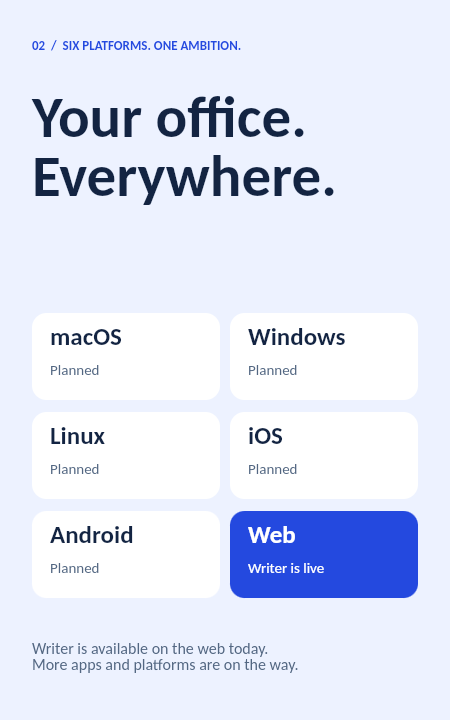
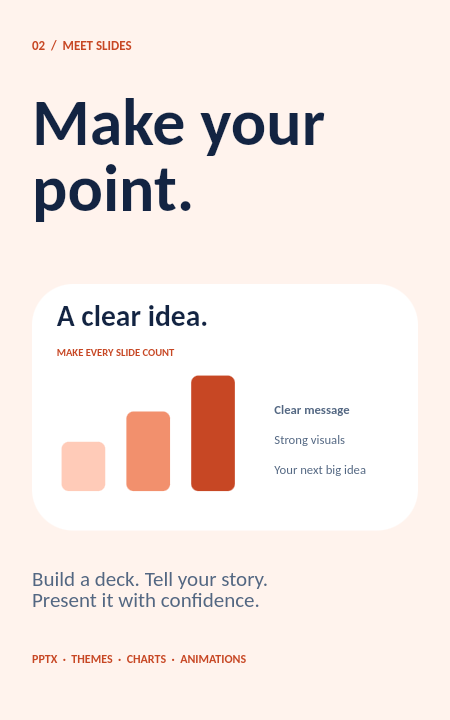
site: feature Writer, Slides, and Sheets across the landing deck

diff --git a/index.html b/index.html
@@ -5,37 +5,44 @@
   <meta name="viewport" content="width=device-width, initial-scale=1">
   <meta name="theme-color" content="#2449df">
   <title>Starling Office — an open source office suite</title>
-  <meta name="description" content="Big ideas start here. An open source office suite, beginning with Writer. A presentation made and rendered with Starling Slides.">
+  <meta name="description" content="Big ideas start here. Writer, Slides, and Sheets: an open source office suite for documents, presentations, and spreadsheets. A presentation made and rendered with Starling Slides.">
   <link rel="canonical" href="https://openoffice.starling.build/">
   <meta property="og:title" content="Starling Office — big ideas start here">
-  <meta property="og:description" content="An open source office suite. Writer is live on the web. More apps and platforms are on the way.">
+  <meta property="og:description" content="Meet Writer, Slides, and Sheets. Documents, presentations, and spreadsheets, built in the open.">
   <meta property="og:type" content="website">
-  <meta property="og:image" content="https://openoffice.starling.build/slides/wide-1.png">
+  <meta property="og:image" content="https://openoffice.starling.build/slides/wide-1.png?v=04f0ac3f4aed0755">
   <link rel="icon" href="favicon.svg" type="image/svg+xml">
-  <link rel="stylesheet" href="styles.css?v=c82e00073d7879bf">
+  <link rel="stylesheet" href="styles.css?v=a0724e2d1c1235d0">
 </head>
 <body>
   <a class="skip" href="#presentation">Skip to presentation</a>
   <header class="header">
     <a class="brand" href="https://starling.build"><img src="favicon.svg" width="30" height="30" alt="">Starling <span>Office</span></a>
-    <div class="header-links"><button id="read-text" type="button">Read the story</button><a href="https://github.com/starling-build/starling">GitHub ↗</a><a class="open-writer" href="https://writer.starling.build/">Open Writer ↗</a></div>
+    <div class="header-links"><button id="read-text" type="button">Read the story</button><a href="https://github.com/starling-build/starling">GitHub ↗</a><a class="open-apps" href="#2">Explore apps ↘</a></div>
   </header>
   <main id="presentation" aria-label="Starling Office presentation">
     <div class="stage" id="stage">
-      <picture id="poster"><source media="(max-aspect-ratio: 1/1)" srcset="slides/tall-1.png"><img src="slides/wide-1.png" alt="Big ideas. Start here. An open source office suite, starting with Writer." fetchpriority="high" width="1280" height="720"></picture>
+      <picture id="poster"><source media="(max-aspect-ratio: 1/1)" srcset="slides/tall-1.png?v=04f0ac3f4aed0755"><img src="slides/wide-1.png?v=04f0ac3f4aed0755" alt="Big ideas. Start here. Writer, Slides, and Sheets. An open source office suite." fetchpriority="high" width="1280" height="720"></picture>
       <canvas id="starling" tabindex="0" role="img" aria-label="Starling Slides presentation" aria-describedby="slide-description"></canvas>
       <div class="load-status" id="load-status" role="status">Starting live slides…</div>
       <button id="retry" type="button" hidden>Retry live slides</button>
     </div>
-    <p class="sr-only" id="slide-description">An open source office suite, starting with Writer. Writer is available on the web today.</p>
+    <p class="sr-only" id="slide-description">Writer, Slides, and Sheets. An open source office suite. Documents, presentations, and spreadsheets, built in the open.</p>
   </main>
   <footer class="controls">
-    <div class="credit"><span class="slides-icon" aria-hidden="true">S</span><span>Presented with <strong>Starling Slides</strong><a id="download-deck" href="slides/landing-wide.pptx" download>Download the editable deck ↗</a></span></div>
-    <nav class="slide-navigation" aria-label="Presentation slides"><button id="previous" type="button" aria-label="Previous slide" disabled>←</button><div class="dots"><button type="button" data-slide="0" aria-label="Slide 1: Introduction" aria-current="step"></button><button type="button" data-slide="1" aria-label="Slide 2: Writer"></button><button type="button" data-slide="2" aria-label="Slide 3: Platforms"></button><button type="button" data-slide="3" aria-label="Slide 4: Open source"></button></div><span id="position" aria-live="polite" aria-atomic="true">01 / 04</span><button id="next" type="button" aria-label="Next slide">→</button></nav>
-    <a class="slide-action" id="slide-action" href="https://writer.starling.build/">Start writing <span aria-hidden="true">↗</span></a>
+    <div class="credit"><span class="slides-icon" aria-hidden="true">S</span><span>Presented with <strong>Starling Slides</strong><a id="download-deck" href="slides/landing-wide.pptx?v=04f0ac3f4aed0755" download>Download the editable deck ↗</a></span></div>
+    <nav class="slide-navigation" aria-label="Presentation slides"><button id="previous" type="button" aria-label="Previous slide" disabled>←</button><div class="dots"><button type="button" data-slide="0" aria-label="Slide 1: Introduction" aria-current="step"></button><button type="button" data-slide="1" aria-label="Slide 2: Writer"></button><button type="button" data-slide="2" aria-label="Slide 3: Slides"></button><button type="button" data-slide="3" aria-label="Slide 4: Sheets"></button><button type="button" data-slide="4" aria-label="Slide 5: Platforms"></button><button type="button" data-slide="5" aria-label="Slide 6: Open source"></button></div><span id="position" aria-live="polite" aria-atomic="true">01 / 06</span><button id="next" type="button" aria-label="Next slide">→</button></nav>
+    <a class="slide-action" id="slide-action" href="#2">Meet the apps <span aria-hidden="true">↗</span></a>
   </footer>
-  <dialog id="story"><button id="close-story" type="button" aria-label="Close story">×</button><article><h1>Starling Office</h1><h2>Big ideas. Start here.</h2><p>An open source office suite, starting with Writer.</p><h2>Write something great.</h2><p>A familiar ribbon. A clean page. Fonts, styles, tables, and pictures. Open and save DOCX, RTF, Markdown, and plain text. <a href="https://writer.starling.build/">Open Writer</a>.</p><h2>Your office. Everywhere.</h2><p>Writer is available on the web today. macOS, Windows, Linux, iOS, and Android are planned.</p><h2>Open code. Shared ambition.</h2><p>Built on the Starling SDK and licensed under Apache 2.0. Only Writer is available so far. <a href="https://github.com/starling-build/starling/tree/office/apps/OfficeApp">Read the source</a>.</p><p>This presentation is an editable PPTX, displayed by Starling Slides.</p></article></dialog>
-  <noscript><div class="no-script">Browse the <a href="slides/landing-wide.pptx">presentation deck</a>, or <a href="https://writer.starling.build/">open Writer</a>. JavaScript enables live slides.</div></noscript>
-  <script type="module" src="slides.js?v=f5bb02605a07c2c8"></script>
+  <dialog id="story"><button id="close-story" type="button" aria-label="Close story">×</button><article>
+    <h1>Starling Office</h1><h2>Big ideas. Start here.</h2><p>Writer, Slides, and Sheets. An open source office suite for documents, presentations, and spreadsheets.</p>
+    <h2 id="writer-details">Writer — write something great.</h2><p>A familiar ribbon. A clean page. Fonts, styles, tables, and pictures. Open and save DOCX, RTF, Markdown, and plain text. <a href="https://writer.starling.build/">Open Writer</a>.</p>
+    <h2 id="slides-details">Slides — make your point.</h2><p>Build presentations with themes, shapes, tables, charts, and animations. Present with speaker notes. Open and save PPTX. This page itself is an editable presentation rendered by Starling Slides.</p>
+    <h2 id="sheets-details">Sheets — let the numbers tell the story.</h2><p>Organize data with formulas, tables, sorting, and filters. Work across multiple sheets, format cells, and open and save XLSX and CSV.</p>
+    <h2>Your office. Everywhere.</h2><p>The platform roadmap spans macOS, Windows, Linux, iOS, Android, and the web.</p>
+    <h2>Open code. Shared ambition.</h2><p>Writer, Slides, and Sheets are built on the Starling SDK. Apache 2.0 licensed. <a href="https://github.com/starling-build/starling">Explore the project</a>.</p>
+  </article></dialog>
+  <noscript><div class="no-script">Browse the <a href="slides/landing-wide.pptx?v=04f0ac3f4aed0755">presentation deck</a>, or <a href="https://writer.starling.build/">open Writer</a>. JavaScript enables live slides.</div></noscript>
+  <script type="module" src="slides.js?v=04f0ac3f4aed0755"></script>
 </body>
 </html>

diff --git a/slides.js b/slides.js
@@ -1,8 +1,23 @@
 const descriptions = [
-  'Big ideas. Start here. An open source office suite, starting with Writer.',
+  'Big ideas. Start here. Writer, Slides, and Sheets: an open source office suite for documents, presentations, and spreadsheets.',
   'Write something great. Writer offers a familiar ribbon, styles, tables and pictures. DOCX, RTF, Markdown and text.',
-  'Your office. Everywhere. Writer is live on the web. macOS, Windows, Linux, iOS and Android are planned.',
-  'Open code. Shared ambition. Built on Starling, licensed under Apache 2.0. Only Writer is available so far.',
+  'Make your point. Slides brings themes, charts, animations, and speaker notes to your presentations. Open and save PPTX. This page runs on Starling Slides.',
+  'Let the numbers tell the story. Sheets combines formulas, tables, sorting, and filters. Open and save XLSX and CSV.',
+  'Your office. Everywhere. Documents, presentations, and spreadsheets, with a roadmap across macOS, Windows, Linux, iOS, Android, and the web.',
+  'Open code. Shared ambition. Writer, Slides, and Sheets. Built on Starling, licensed under Apache 2.0.',
+];
+const lastSlide = descriptions.length - 1;
+// The published controller URL carries the content revision for the whole deck.
+// Keep previews and PPTXs together across cached deployments.
+const slideVersion = new URL(import.meta.url).searchParams.get('v') || String(Date.now());
+const slideAsset = name => `slides/${name}?v=${slideVersion}`;
+const actions = [
+  ['Meet the apps', '#2'],
+  ['Open Writer', 'https://writer.starling.build/'],
+  ['About Slides', '#slides-details'],
+  ['About Sheets', '#sheets-details'],
+  ['Explore the apps', '#2'],
+  ['Explore the code', 'https://github.com/starling-build/starling'],
 ];
 const canvas = document.getElementById('starling');
 const stage = document.getElementById('stage');
@@ -10,29 +25,29 @@ const poster = document.getElementById('poster');
 const status = document.getElementById('load-status');
 const prev = document.getElementById('previous'), next = document.getElementById('next');
 const dots = [...document.querySelectorAll('[data-slide]')];
-let app, index = Math.max(0, Math.min(3, (Number(location.hash.slice(1)) || 1) - 1));
+let app, index = Math.max(0, Math.min(lastSlide, (Number(location.hash.slice(1)) || 1) - 1));
 let portrait;
 const isPortrait = () => canvas.clientWidth < canvas.clientHeight;
 function update() {
-  poster.querySelector('source').srcset = `slides/tall-${index + 1}.png`;
+  poster.querySelector('source').srcset = slideAsset(`tall-${index + 1}.png`);
   // Use the canvas's aspect ratio, which excludes the HTML controls.
   poster.querySelector('source').media = isPortrait() ? 'all' : 'not all';
-  poster.querySelector('img').src = `slides/wide-${index + 1}.png`;
+  poster.querySelector('img').src = slideAsset(`wide-${index + 1}.png`);
   poster.querySelector('img').alt = descriptions[index];
   document.getElementById('slide-description').textContent = descriptions[index];
-  canvas.setAttribute('aria-label', `Slide ${index + 1} of 4: ${descriptions[index]}`);
-  document.getElementById('position').textContent = `0${index + 1} / 04`;
-  prev.disabled = index === 0; next.disabled = index === 3;
+  canvas.setAttribute('aria-label', `Slide ${index + 1} of ${descriptions.length}: ${descriptions[index]}`);
+  document.getElementById('position').textContent = `0${index + 1} / 0${descriptions.length}`;
+  prev.disabled = index === 0; next.disabled = index === lastSlide;
   dots.forEach((dot, i) => i === index ? dot.setAttribute('aria-current', 'step') : dot.removeAttribute('aria-current'));
   const action = document.getElementById('slide-action');
-  action.href = index === 3 ? 'https://github.com/starling-build/starling/tree/office/apps/OfficeApp' : 'https://writer.starling.build/';
-  action.innerHTML = `${index === 3 ? 'Explore the code' : index === 1 ? 'Try Writer' : 'Start writing'} <span aria-hidden="true">↗</span>`;
-  stage.style.background = ['#2449df', '#f7f9ff', '#edf2ff', '#101d37'][index];
-  document.getElementById('download-deck').href = `slides/landing-${isPortrait() ? 'tall' : 'wide'}.pptx`;
+  action.href = actions[index][1];
+  action.innerHTML = `${actions[index][0]} <span aria-hidden="true">↗</span>`;
+  stage.style.background = ['#2449df', '#f7f9ff', '#fff3ed', '#edf9f2', '#edf2ff', '#101d37'][index];
+  document.getElementById('download-deck').href = slideAsset(`landing-${isPortrait() ? 'tall' : 'wide'}.pptx`);
   history.replaceState(null, '', `#${index + 1}`);
 }
 function go(to) {
-  index = Math.max(0, Math.min(3, to));
+  index = Math.max(0, Math.min(lastSlide, to));
   app?.swift.office_landing_go(index);
   update();
 }
@@ -43,12 +58,20 @@ window.addEventListener('hashchange', () => go((Number(location.hash.slice(1)) |
 const story = document.getElementById('story');
 document.getElementById('read-text').addEventListener('click', () => story.showModal());
 document.getElementById('close-story').addEventListener('click', () => story.close());
+document.getElementById('slide-action').addEventListener('click', event => {
+  const href = actions[index][1];
+  if (href === '#slides-details' || href === '#sheets-details') {
+    event.preventDefault();
+    story.showModal();
+    document.querySelector(href).scrollIntoView({ block: 'start' });
+  }
+});
 window.addEventListener('keydown', event => {
   if (story.open || event.altKey || event.ctrlKey || event.metaKey || (app && event.target === canvas)) return;
   if (['ArrowRight', 'ArrowDown', 'PageDown'].includes(event.key)) { event.preventDefault(); go(index + 1); }
   if (['ArrowLeft', 'ArrowUp', 'PageUp'].includes(event.key)) { event.preventDefault(); go(index - 1); }
   if (event.key === 'Home') { event.preventDefault(); go(0); }
-  if (event.key === 'End') { event.preventDefault(); go(3); }
+  if (event.key === 'End') { event.preventDefault(); go(lastSlide); }
 });
 // Navigation works on the rendered slide previews while the live app starts.
 let touchStart;
@@ -80,8 +103,8 @@ try {
     fonts: `${config.base}fonts/manifest.json`,
     initialRoute: `/office-landing${isPortrait() ? '/portrait' : ''}`,
     initialFiles: [
-      { name: 'landing-wide.pptx', url: 'slides/landing-wide.pptx' },
-      { name: 'landing-tall.pptx', url: 'slides/landing-tall.pptx' },
+      { name: 'landing-wide.pptx', url: slideAsset('landing-wide.pptx') },
+      { name: 'landing-tall.pptx', url: slideAsset('landing-tall.pptx') },
     ],
     onPhase: () => { status.textContent = 'Starting live slides…'; },
     onFontStatus: ({ pending, failed }) => {

diff --git a/styles.css b/styles.css
@@ -8,7 +8,7 @@ button[hidden] { display:none; }
 .header { display:flex; align-items:center; justify-content:space-between; padding:0 36px; gap:20px; background:#fff; }
 .brand { display:flex; align-items:center; gap:9px; font-size:18px; font-weight:750; letter-spacing:-.6px; }.brand span { font-weight:450; color:#687690; }
 .header-links { display:flex; align-items:center; gap:26px; font-size:13px; }.header-links button { background:none; border:0; padding:10px 0; }
-.open-writer { border:1px solid #dce3f0; border-radius:8px; padding:11px 17px; }
+.open-apps { border:1px solid #dce3f0; border-radius:8px; padding:11px 17px; }
 main { min-height:0; overflow:hidden; background:#2449df; }
 .stage { width:100%; height:100%; position:relative; overflow:hidden; }
 canvas,#poster { display:block; position:absolute; inset:0; width:100%; height:100%; }
@@ -22,7 +22,7 @@ canvas { touch-action:none; opacity:0; transition:opacity .25s; }
 .slide-navigation { display:flex; align-items:center; gap:18px; }.slide-navigation>button { width:36px; height:36px; border:1px solid #dce3f0; border-radius:50%; background:#fff; font-size:20px; }.dots { display:flex; gap:7px; }.dots button { width:25px; height:32px; position:relative; border:0; background:transparent; padding:0; }.dots button:before { content:""; width:7px; height:7px; border-radius:50%; position:absolute; left:9px; top:13px; background:#c9d2e5; }.dots button[aria-current]:before { background:#2449df; width:19px; border-radius:6px; left:3px; }
 #position { font-size:11px; letter-spacing:1px; font-variant-numeric:tabular-nums; color:#6c7991; white-space:nowrap; }.slide-action { background:#2449df; color:#fff; border-radius:8px; padding:14px 22px; font-size:13px; font-weight:650; min-width:146px; display:flex; justify-content:space-between; gap:24px; }
 .sr-only,.skip:not(:focus) { position:absolute; width:1px; height:1px; overflow:hidden; clip-path:inset(50%); white-space:nowrap; }.skip:focus { position:fixed; z-index:10; background:white; padding:12px; }
-dialog { border:0; border-radius:14px; padding:40px; max-width:650px; max-height:85dvh; color:#152340; line-height:1.6; } dialog::backdrop { background:#081735a8; } dialog h1 { font-size:32px; } dialog h2 { margin-top:28px; } dialog a { color:#2449df; text-decoration:underline; } #close-story { float:right; border:0; background:none; font-size:30px; }.no-script { position:fixed; bottom:90px; left:20px; padding:10px; background:#fff; }
-@media(max-width:760px) { body { grid-template-rows:60px minmax(0,1fr) 114px; }.header { padding:0 18px; }.brand { font-size:16px; }.brand img { width:26px; height:26px; }.header-links { gap:12px; }.header-links>a:not(.open-writer) { display:none; }.header-links button { font-size:11px; }.open-writer { font-size:11px; padding:9px; }.controls { padding:12px 18px; display:grid; grid-template-columns:1fr auto; gap:6px 16px; }.credit { grid-column:1; font-size:9px; gap:7px; }.credit a { font-size:9px; margin-top:3px; }.slides-icon { width:25px; height:28px; font-size:16px; }.slide-navigation { grid-row:1; grid-column:1/-1; justify-content:center; gap:16px; }.slide-action { grid-row:2; grid-column:2; font-size:11px; padding:10px 12px; min-width:118px; }.load-status { font-size:10px; bottom:7px; right:8px; } }
-@media(max-width:370px) { .header-links button { display:none; }.credit>span:last-child { max-width:140px; } }
+dialog { border:0; border-radius:14px; padding:40px; max-width:650px; max-height:85dvh; color:#152340; line-height:1.6; } dialog::backdrop { background:#081735a8; } dialog h1 { font-size:32px; } dialog h2 { margin-top:28px; } dialog a { color:#2449df; text-decoration:underline; } #close-story { position:sticky; top:0; z-index:1; float:right; border:0; background:#fff; font-size:30px; }.no-script { position:fixed; bottom:90px; left:20px; padding:10px; background:#fff; }
+@media(max-width:760px) { body { grid-template-rows:60px minmax(0,1fr) 114px; }.header { padding:0 18px; }.brand { font-size:16px; }.brand img { width:26px; height:26px; }.header-links { gap:12px; }.header-links>a:not(.open-apps) { display:none; }.header-links button { font-size:11px; }.open-apps { font-size:11px; padding:9px; }.controls { padding:12px 18px; display:grid; grid-template-columns:1fr auto; gap:6px 16px; }.credit { grid-column:1; font-size:9px; gap:7px; }.credit a { font-size:9px; margin-top:3px; }.slides-icon { width:25px; height:28px; font-size:16px; }.slide-navigation { grid-row:1; grid-column:1/-1; justify-content:center; gap:10px; }.dots { gap:2px; }.slide-action { grid-row:2; grid-column:2; font-size:11px; padding:10px 12px; min-width:118px; }.load-status { font-size:10px; bottom:7px; right:8px; } }
+@media(max-width:370px) { .slide-navigation { gap:6px; }.slide-navigation>button { width:32px; height:32px; }.dots button { width:21px; }.dots button:before { left:7px; }.dots button[aria-current]:before { width:17px; left:2px; } .header-links button { display:none; }.credit>span:last-child { max-width:140px; } }
 @media(prefers-reduced-motion:reduce) { canvas { transition:none; } }
